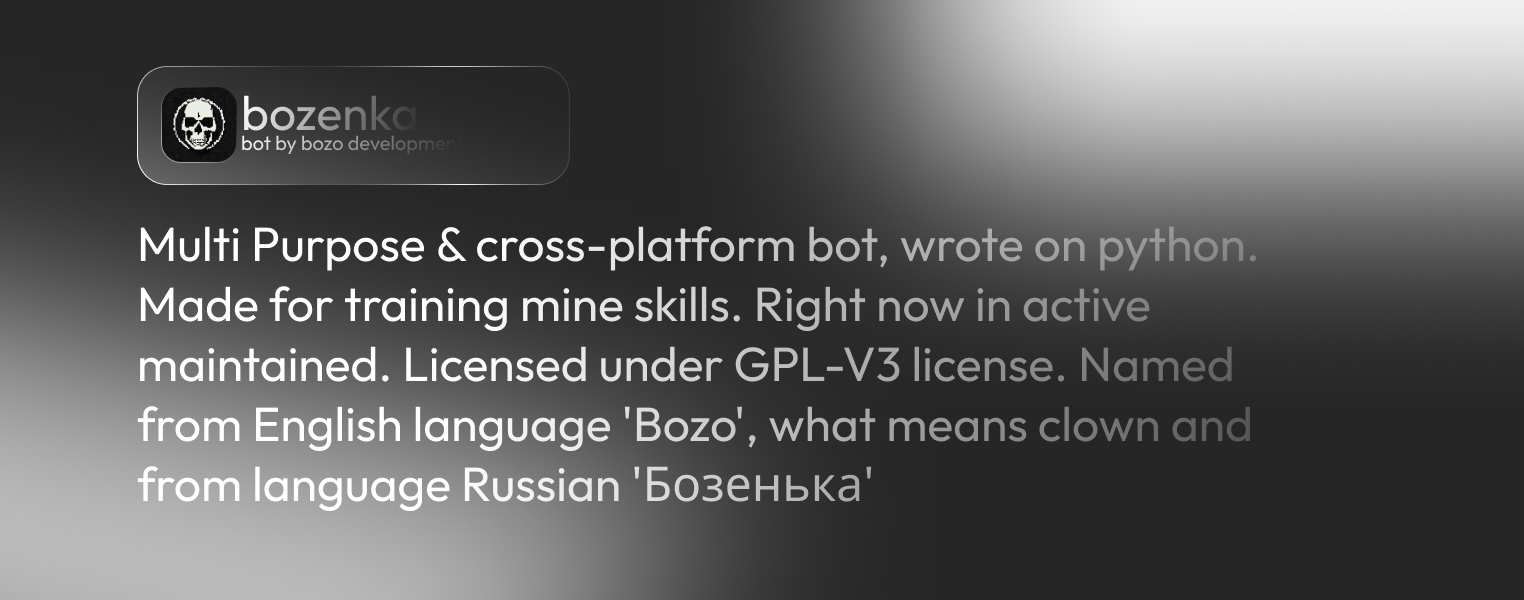
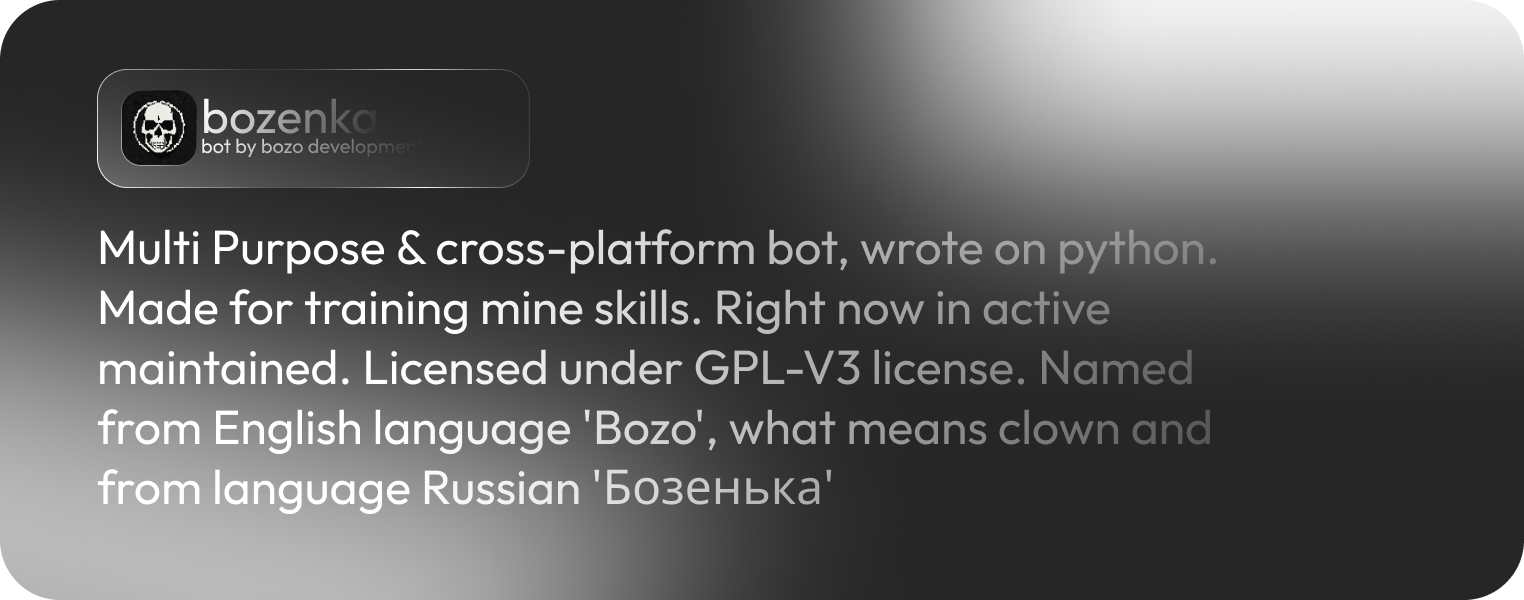
Updated readme :+1:

diff --git a/README.md b/README.md
@@ -1,16 +1,17 @@
 <div align="center">
 
-### Bozenka
-MultiPurpose & cross-platform bot, wrote on python. Made for training mine skills. \
-Right now in active maintaned. In future planning multi-messengers support. Licensed under GPL-V3 license.
+<img src="images/header.png">
+
+
+
 </div>
 
-### Features (telegram)
+### Features of Telegram instance
 
 - [ ] Group
   - [ ] Administration
     - [x] Ban & Unban commands
-    - [ ] Mute & Unmute commands
+    - [x] Mute & Unmute commands
     - [x] Pin & Unpin & Unpin all commands
     - [ ] Bad words & Spam filter
     - [ ] Setup command
@@ -35,9 +36,10 @@ Right now in active maintaned. In future planning multi-messengers support. Lice
     - [ ] H20
     - [ ] Work with inline keyboard
     - [ ] Using tutorial.
-    - [ ] Threads and Topic of dialog support
+    - [x] Threads and Topic of dialog support (Already by new aiogram)
   - [ ] Image generation
     - [ ] Using tutorial 
+    - [ ] Inline generation
 - [x] Code
   - [x] Logging support
   - [x] Features descriptions
@@ -46,8 +48,8 @@ Right now in active maintaned. In future planning multi-messengers support. Lice
   - [x] Database
 
 
-### Made with
+### This part of project made with
 
 - [x] [Aiogram python library](https://github.com/aiogram/aiogram) and with their community support.
 - [x] [GPT4Free](https://github.com/xtekky/gpt4free)
-- [x] [GPT4All](https://github.com/nomic-ai/gpt4all)
+- [x] With our love <3
